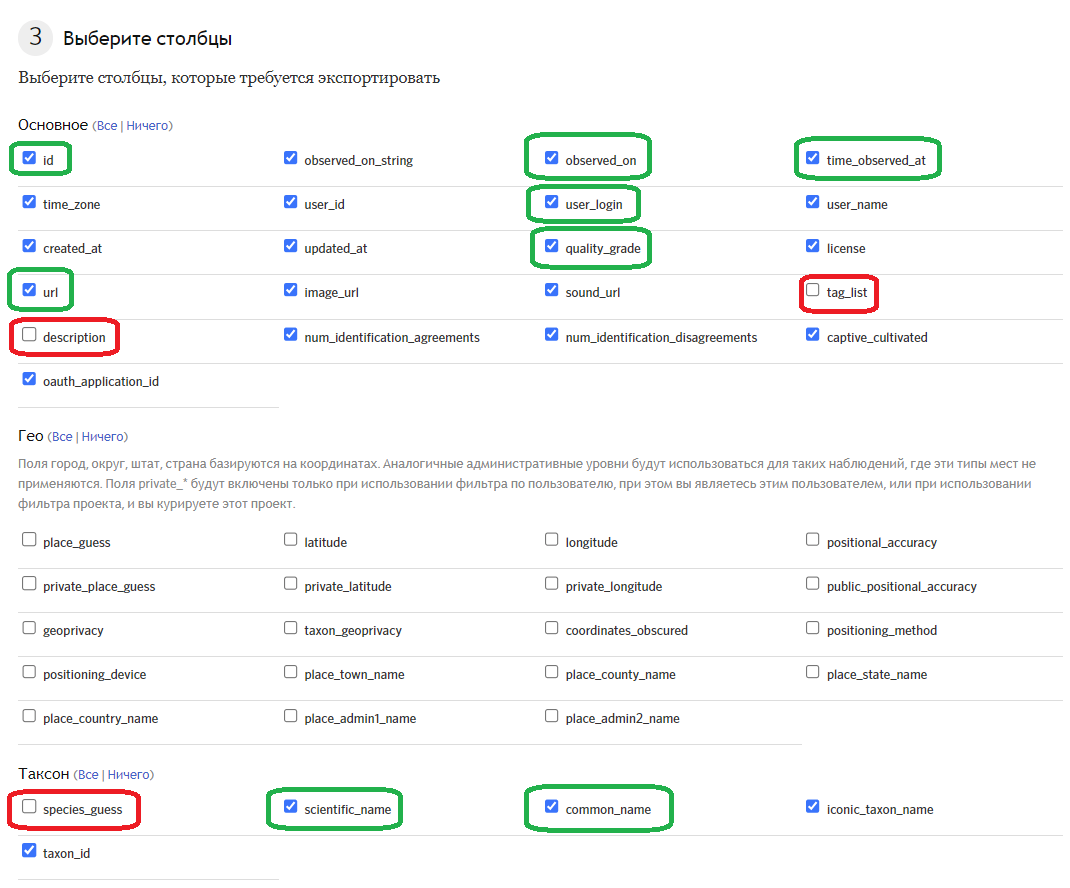
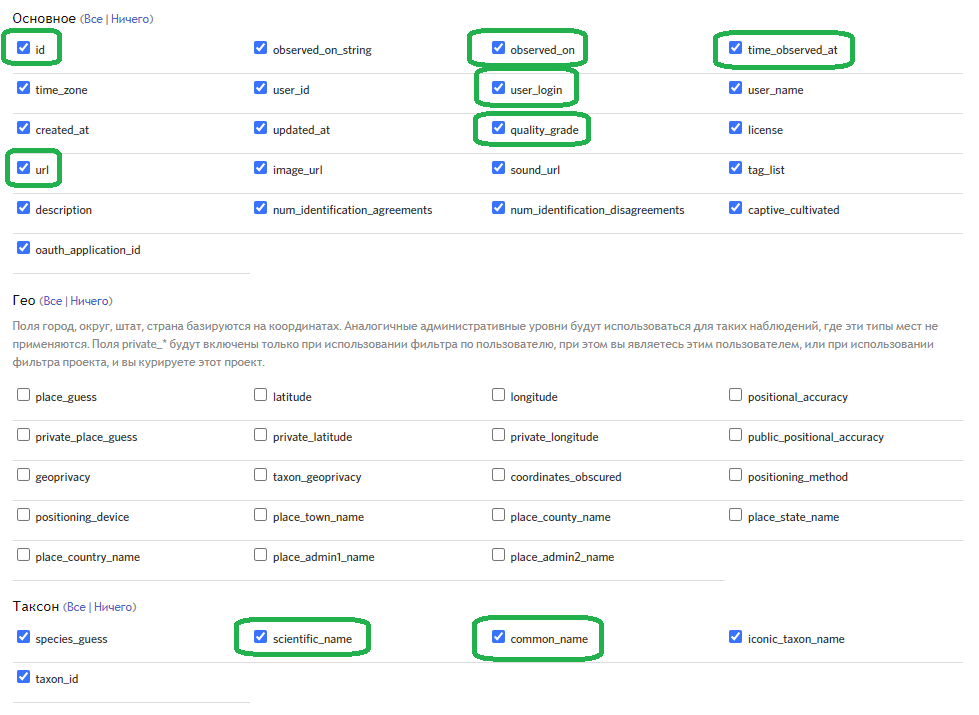
minor mostly wording tuning

diff --git a/checklists.html b/checklists.html
@@ -7,29 +7,41 @@
 <body>
 <table>
 <tr>
-<td>
-<form id="myForm">
-    Checklist CSV file (Checklist format):<br />
-    <input type="file" id="csvFileChecklist" accept=".csv" /><br />
-    <br />
-    <input type="submit" name="read" value="List species" />
-    <br /><br />
-</form>
-</td>
-<td>
-<form id="ebirdForm">
-    <label for="ebird_key">eBird API key:</label><br>
-    <input type="text" id="ebird_key" name="ebird_key"><br>
-    <label for="ebird_region">eBird region id:</label><br>
-    <input type="text" id="ebird_region" name="ebird_region">
-    <br />
-    <input type="submit" name="read" value="List species" />
-    <br /><br />
-    <span id="ebirdDownload"></span>
-</form>
-</table>
-</td>
+    <td>
+    <form id="myForm">
+        Checklist CSV file (Checklist format):<br />
+        <input type="file" id="csvFileChecklist" accept=".csv" /><br />
+        <br />
+        <input type="submit" name="read" value="List species" />
+        <br /><br />
+    </form>
+    </td>
+    <td>
+    <form id="ebirdForm">
+        <label for="ebird_key">eBird API key:</label><br>
+        <input type="text" id="ebird_key" name="ebird_key"><br>
+        <label for="ebird_region">eBird region id:</label><br>
+        <input type="text" id="ebird_region" name="ebird_region">
+        <br />
+        <input type="submit" name="read" value="List species" />
+        <br /><br />
+        <span id="ebirdDownload"></span>
+    </form>
+    </td>
 </tr>
+<tr id="description_tr">
+    <td>
+        Two main purposes:
+        <ul>
+        <li>List the species from checklist wuthout any comparison</li>
+        <li>Fetch tax data from iNats and cache it locally in your browser to use in other reports</li>
+        </ul>
+    </td>
+    <td>
+        Fetch the list of all observed birds in the region in eBirds and save it in the form of CSV checklist
+    </td>
+</tr>
+</table>
 <div id="instruction"></div>
 
 <div id="detail_div"></div>
@@ -63,10 +75,11 @@ myForm.addEventListener("submit", function (e) {
             const checklistMap = CSV2Checklist(checklist_string_csv);
             generateChecklistFetchingTable( checklistMap );
         }
-       
-      document.getElementById("instruction").innerHTML = '';
     };
     reader.readAsText(checklist_input);
+       
+    document.getElementById("instruction").innerHTML = '';
+    document.getElementById("description_tr").innerHTML = '';
 });
 
 
@@ -130,6 +143,9 @@ ebirdForm.addEventListener("submit", function (e) {
         ebirdDownloadSpan.appendChild(ebirdDownloadA);
 
     });
+       
+    document.getElementById("instruction").innerHTML = '';
+    document.getElementById("description_tr").innerHTML = '';
 });
 
 </script>

diff --git a/inats.html b/inats.html
@@ -41,7 +41,7 @@
    <tr id="description_tr">
      <td>
       Species are sorted by first observation and grouped by year of the first observation.<br /><br />
-      Shows progress in discovering new species over the years.
+      Shows the progress in discovering new species over the years.
      </td>
      <td>
       Species are sorted by number of observations in Main CSV, the last observation from compared CSV is shown (or line is greyed out). Followed by list of species available only in Compared CSV.<br /><br />
@@ -59,11 +59,12 @@
 <h3>Instruction for iNats format:</h3>
 Any options here, then press red-circled link.<br />
    <img width=600 src="img/first.jpeg" /><br /><br />
-Green-circled options are required, red-circled options should be avoided (the issues with those are fixed, but be cautious just in case).<br />
+Green-circled options are required for parsing (should be checked by default).<br />
    <img width=600 src="img/second.png" /><br /><br />
-Waiting for archive to be available.<br />
-Download archive, unpack it...<br /><br />
-Provide results CSV file to the form as Main CSV or Comparison CSV<br />
+Wait for archive to be available.<br />
+Download archive<br />
+Unpack it...<br /><br />
+Provide results CSV file to the form as Main CSV or Comparison CSV<br /><br />
 
 <h3>Instruction for Checklist format:</h3>
 This is any CSV file, with one of the columns headers containing "scientific_name" and values are latin taxa names with iNats compatible names.<br />
@@ -124,11 +125,7 @@ myForm.addEventListener("submit", function (e) {
      
             generateChecklistTable( speciesMap, checklistMap ).then((downloadArray) =>
             {
-                //console.log(downloadArray);
-
                 const csvString = ArrayToCSV(downloadArray);
-
-                //console.log(csvString);
 
                 var blob = new Blob([csvString], { type: 'text/csv;charset=utf-8;' });
 
@@ -139,6 +136,8 @@ myForm.addEventListener("submit", function (e) {
                 downloadA.setAttribute("href", url);
                 downloadA.setAttribute("download", 'checklist.csv');
                 downloadA.innerHTML = 'download';
+                
+                downloadSpan.innerHTML = '';
                 downloadSpan.appendChild(downloadA);
             });
          };

diff --git a/index.html b/index.html
@@ -9,7 +9,7 @@
 <ul>
 <li><a href="inats.html">Parsing iNats exported CSV</a></li>
 <li><a href="checklists.html">Fetching data from iNats and eBird</a></li>
-<li><a href="stats.html">Statistical analysis for iNats exported CSV</a></li>
+<li><a href="stats.html">Statistical analysis for iNats exported CSV (EXPERIMENTAL)</a></li>
 </ul>
 Note: ping <a href="https://www.inaturalist.org/people/5874769">@iburyl</a> on inat if there are questions.
 </body>
